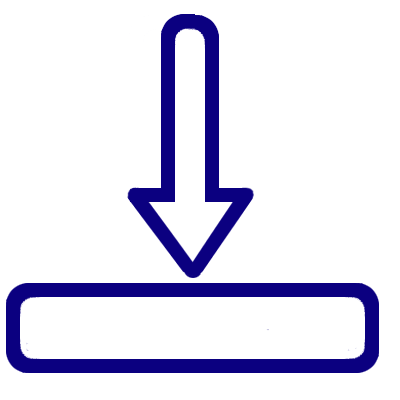
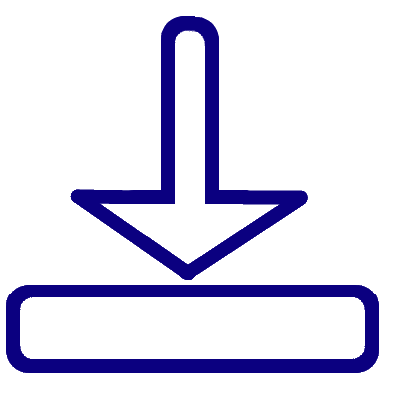
work on help text and pictures

diff --git a/hasqd/img/jsclient/txt/ts_master_key.htm b/hasqd/img/jsclient/txt/ts_master_key.htm
@@ -1,0 +1,32 @@
+<p style="text-align: left;">
+<i><b>What is the master key?</b></i> 
+Master key is a password which validates ownership of tokens.
+(The master key is a secure password to 
+control your tokens. ) FIXME
+It is not shared if you pass your token 
+to another person. The master key is not stored anywhere and if 
+it is complex (long and random) it cannot be recovered. If you 
+forget the master key, the token will remain forever because no one 
+would be able to control it.
+</p>
+<hr/>
+
+<p style="text-align: left;">
+<i><b>WARNING!</b></i>
+The way how passwords are used here is different from other services.
+TokenSwap (Hasq technology) works with open databases - a public ledger.
+This means that the passwords <i>WILL</i> effectively 
+be challanged for each token.
+Only complex passwords ensure security of your ownership.
+The hint below serves only as a guide for password complexity, but
+not a strict proof.
+</p>
+<hr/>
+
+<p style="text-align: left;">
+<i><b>How to change the master key?</b></i>
+The only way to change a password 
+for a particular token is to pass the token to yourself by
+"Give" and "Receive" buttons using a different master key.
+</p>
+<hr/>

diff --git a/hasqd/img/jsclient/txt/ts_info.htm b/hasqd/img/jsclient/txt/ts_info.htm
@@ -17,25 +17,8 @@ hash "6ea923f0bba18e2a736ecae8cb61ff78".
 <hr/>
 
 <p style="text-align: left;">
-Each token is controlled by a master key. And many tokens
+Each token is controlled by a master key. Many tokens
 can be controlled by the same master key.
-</p>
-
-<p style="text-align: left;">
-<b>What is the master key?</b> The master key is a secure password to 
-control your tokens. It is not shared if you pass your token 
-to another person. The master key is not stored anywhere and if 
-it is complex (long and random) it cannot be recovered. If you 
-forget the master key, the token will remain forever because no one 
-would be able to control it.
-</p>
-<hr/>
-
-<p style="text-align: left;">
-<b>How to change the master key?</b> The only way to change a password 
-for a particular token is to pass the token to yourself using 
-"Give" and "Receive" buttons using a different master key. For 
-a detailed explanation click on the title "Master key".
 </p>
 <hr/>
 

diff --git a/hasqd/img/jsclient/tsclnt.html b/hasqd/img/jsclient/tsclnt.html
@@ -45,9 +45,7 @@
   <li> [A] fix ts_help.inc.js to replace to ifs
   <li> [A] create help text files - all new files have to be created with FIXMEs
   <li> [A] "file" when loaded, show text area in different color (maybe disabled)
-  <li> DONE [A] (om) receive and send arrows heads wider
   <li> [A] Fix error message on SET on different conditions (discuss)
-  <li> [B] (om) Icons with arrows (on hold) make wider and arrows head wider
   <li> [B] "file" limit postavit 5Mb vmesto 20-ti; u menja byla oshibka kogda ja proboval zagruzit 160Mb file "File loading error" nuzhno gljanut otkuda eta oshibka iniciiruetsja
   <li> [B] test with slow worker
   <li> [B] Mobile version all must be darker
@@ -60,6 +58,5 @@
   <li> [C] fix makefile to remove action if not necessary
   <li> [C] all icon pictures lines darker
 </ul>
-<p>* needs to check </p>
 </body>
 </html>

diff --git a/hasqd/img/jsclient/front/ts_help.inc.js b/hasqd/img/jsclient/front/ts_help.inc.js
@@ -9,7 +9,7 @@ function gHelp(x)
 ///        span_info: p_,
 ///        token_name: 'FIXME (ts_message.js)<br\>token_name',
 ///        token_hash: 'FIXME (ts_message.js)<br\>token_hash',
-        master_key: 'FIXME (ts_message.js)<br\>master_key',
+///        master_key: 'FIXME (ts_message.js)<br\>master_key',
         welcome_to_tokenswap: 'FIXME (ts_message.js)<br\>welcome_to_tokenswap',
         token_data: 'FIXME (ts_message.js)<br\>token_data',
         create_new_token: 'FIXME (ts_message.js)<br\>create_new_token',
@@ -46,6 +46,11 @@ function gHelp(x)
     {
         INCLUDEFILE
         txt/ts_token_name.htm
+    }
+    else if (x == 'master_key')
+    {
+        INCLUDEFILE
+        txt/ts_master_key.htm
     }
 
     return r;

diff --git a/hasqd/img/jsclient/txt/ts_token_name.htm b/hasqd/img/jsclient/txt/ts_token_name.htm
@@ -1,3 +1,23 @@
 <p style="text-align: left;">
-FIXME token name
+<i><b>What is token name?</b></i> FIXME
+</p>
+<hr/>
+<p style="text-align: left;">
+<i><b>Can name be arbitrary data?</b></i>
+No, it has to be simple ASCII textual data, not too long.
+</p>
+<hr/>
+<p style="text-align: left;">
+<i><b>What if source of hash is big or binary?</b></i>
+Use file, or hash directly instead of name.
+</p>
+<hr/>
+<p style="text-align: left;">
+<i><b>Is name is open to public?</b></i>
+Yes, if it is a simple short text.
+</p>
+<hr/>
+<p style="text-align: left;">
+<i><b>How to hide name (make it not public)?</b></i>
+Use hash directly instead of name.
 </p>

diff --git a/hasqd/img/jsclient/txt/ts_tok_state.htm b/hasqd/img/jsclient/txt/ts_tok_state.htm
@@ -2,6 +2,6 @@
 This icon shows if you control the token. If it is green, 
 you can change the data or generate keys to pass the 
 ownership to another person. If it is red, you can only 
-see the token and its data. If the icon is half-red 
+see the token and its data. If the icon is a triangle half-red 
 half-green, then it means that the token is in a locked state.
 </p>
